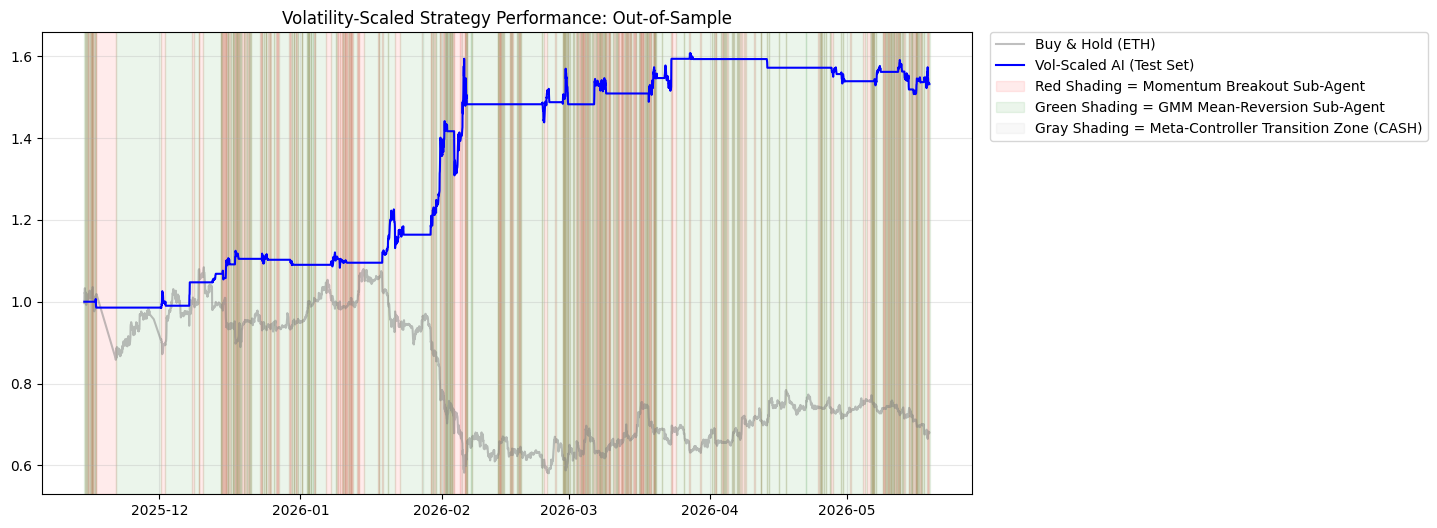
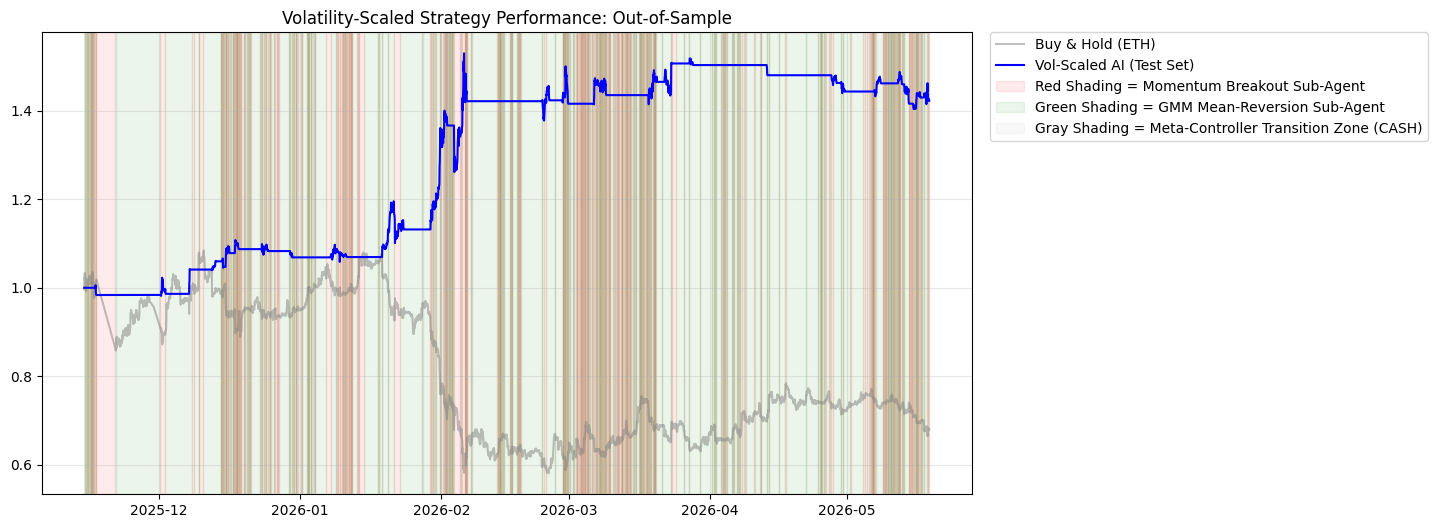
backtest

diff --git a/src/backtest.py b/src/backtest.py
@@ -22,7 +22,7 @@ def get_hurst_exponent(ts, max_lag=20):
     poly = np.polyfit(np.log(lags), np.log(tau), 1)
     return poly[0] * 2.0
 TARGET_VOLATILITY = 0.06  # Must match api.py
-FEE_PCT = 0.0  # Fees disabled for backtesting
+FEE_PCT = 0.0010  # Fees disabled for backtesting
 
 def load_data():
     current_dir = os.path.dirname(os.path.abspath(__file__))